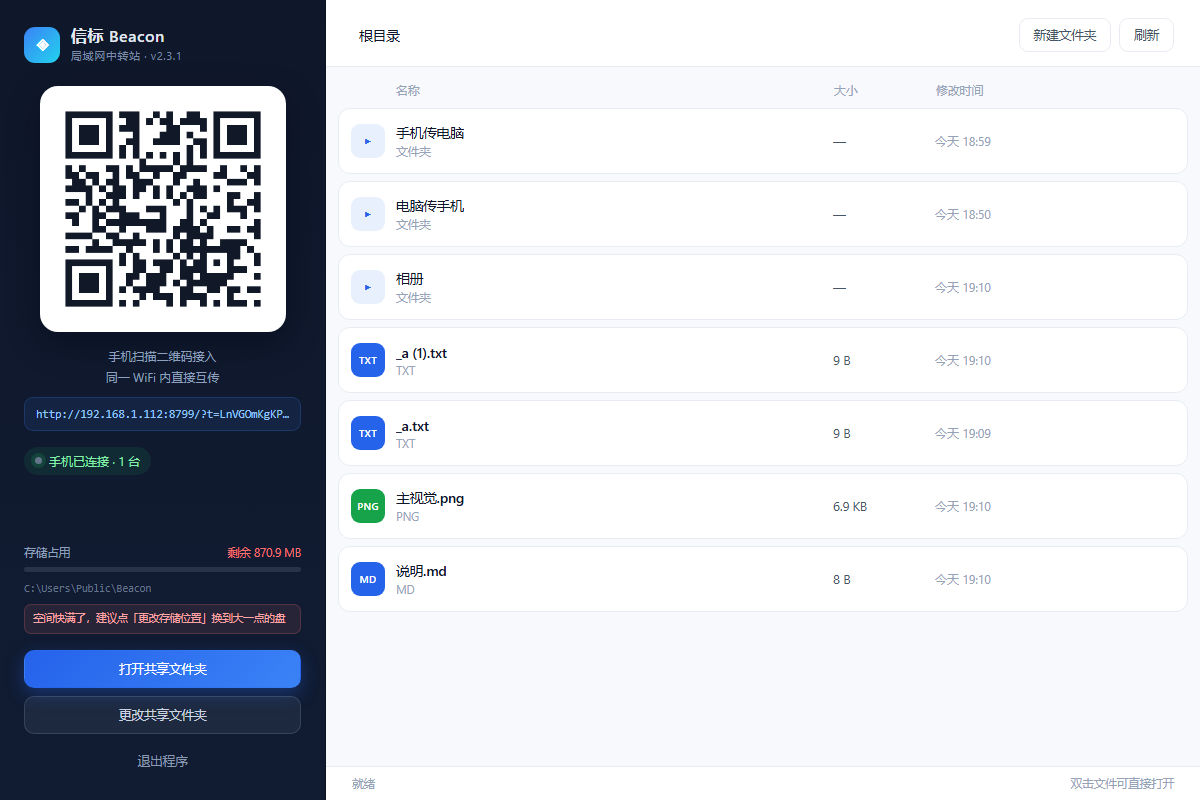
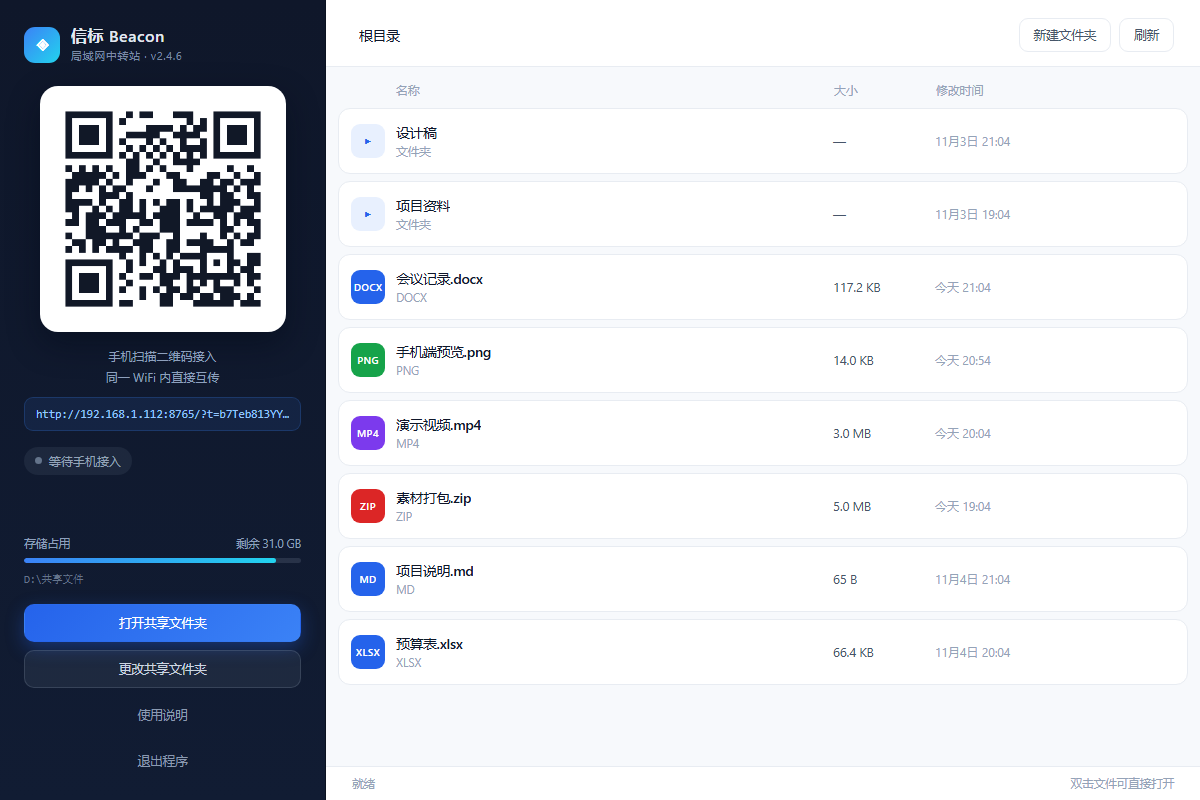
更新文档与界面截图
- README 改为客观表述，补充系统结构、接口说明与限制说明
- 电脑端截图更换为当前版本界面
- 新增社交预览图

diff --git a/README.md b/README.md
@@ -1,86 +1,100 @@
 # 信标 Beacon
 
-手机和电脑之间传文件，不装网盘、不登录、不经过任何服务器。
+局域网内的文件中转工具。运行后在本机启动一个 HTTP 服务并生成二维码，手机扫码即可通过浏览器访问该服务，完成文件的上传与下载。
 
-双击一个 exe，窗口里出来一张二维码；手机扫一下，两台设备就接上了。之后手机能直接浏览电脑上的文件夹、下载、上传，反过来电脑上的文件手机随时拿走。全程只走你自己的 WiFi。
-
-```
-       电脑（Beacon.exe）                     手机
-    ┌──────────────────────┐          ┌──────────────────┐
-    │  D:\Beacon           │          │                  │
-    │  ├── 杂图3           │◄────────►│   浏览器扫码访问  │
-    │  ├── 项目资料        │   同一个  │                  │
-    │  └── ...             │   WiFi    │                  │
-    └──────────────────────┘          └──────────────────┘
-              起了一个小网站              扫码即连
-```
+数据仅在局域网内传输，不经过第三方服务器，不需要注册账号，也不依赖互联网。
 
 ---
 
-## 它解决什么问题
+## 背景
 
-微信传文件会压图、传大文件限速、超 100MB 要开会员；QQ 传完还得翻聊天记录。同学之间传作业、传视频，天天在忍这个。
+在同一个局域网内传输文件，常见做法是借助即时通讯工具或网盘，但前者会压缩图片、限制大文件速度，后者需要上传到外部服务器并受容量与时效约束。
 
-信标的做法是：**电脑上跑一个小网站，手机当浏览器来访问。** 文件从来没有被「上传」到任何地方，它一直躺在你的硬盘上，手机只是来取。所以没有大小限制、没有压缩、没有等待转码。
+本项目采用另一种方式：由电脑端在本地提供 HTTP 服务，手机端作为客户端访问。文件始终保存在电脑的磁盘上，传输过程只发生在两台设备之间。
 
-二维码里不存文件，只存一串地址：`http://192.168.x.x:8765/?t=<随机口令>`。扫码这一步省掉的，是手动输入 IP 这个最烦的环节。
+二维码中承载的内容是一行地址，格式为 `http://<局域网 IP>:<端口>/?t=<访问令牌>`，用于免去手动输入 IP 地址的步骤。
 
 ---
 
-## 截图
+## 界面
 
-![桌面窗口](screenshots/desktop.png)
+电脑端主界面：
 
-| 手机浏览器 | 内置使用说明 |
-|---|---|
-| ![手机](screenshots/phone-web.png) | ![说明](screenshots/help.png) |
+![电脑端](screenshots/desktop.png)
+
+手机端（浏览器访问）：
+
+![手机端](screenshots/phone-web.png)
+
+内置使用说明：
+
+![使用说明](screenshots/help.png)
 
 ---
 
 ## 功能
 
-**电脑端窗口**
-- 左边二维码 + 连接状态 + 磁盘占用条，右边实时文件列表
-- 拖文件或整个文件夹进窗口就上传（自动遍历子目录，保留结构）
-- 双击文件用系统程序打开；改名、删除、新建文件夹
-- 删除先进 Windows 回收站，可从回收站还原
-- 随时更改共享目录，不用重启
-- 手机连上/断开状态实时变化
+**电脑端**
 
-**手机端（浏览器，不用装 App）**
-- 扫码即连；也可以「添加到主屏幕」，之后像个 App 一样全屏打开
-- 图片缩略图，点开直接看图、看视频、看文本，不用先下载
-- 上传显示实时速率和剩余时间，超过 6MB 自动分片、断线自动重传
+- 展示二维码、连接状态与磁盘占用
+- 实时文件列表，与共享目录保持一致
+- 支持拖拽文件或文件夹上传，自动保留目录结构
+- 支持重命名、删除、新建文件夹，以及调用系统程序打开文件
+- 删除操作将文件移入 Windows 回收站，可从回收站恢复
+- 共享目录可在运行时切换，无需重启
+- 显示当前连接的手机数量
+
+**手机端**
+
+- 扫码即用，无需安装应用；也可添加至主屏幕以全屏方式打开
+- 图片显示缩略图，支持直接查看图片、视频与文本，无需先行下载
+- 上传时显示实时速率与剩余时间；超过 6 MB 的文件自动分片，单片失败自动重传
 - 单个文件下载支持断点续传
-- 整个文件夹可以打包成 ZIP 下载（边压边发，不占额外磁盘）
+- 文件夹可打包为 ZIP 下载，打包过程边压边发，不产生临时文件
 
-**安全**
-- 每次启动生成随机 token，二维码里带着。别人拿到你的 IP 也打不开
-- 目录穿越、无 token 访问一律 403
-- 上传文件名做清洗，写不出共享目录之外
+**访问控制**
+
+- 每次启动生成随机访问令牌，二维码中包含该令牌
+- 无令牌访问与目录穿越请求一律返回 403
+- 上传文件名经过清洗，写入范围限制在共享目录内
+
+---
+
+## 技术结构
+
+```
+┌─────────────────────┐        HTTP / 局域网        ┌──────────────────┐
+│  电脑端 Beacon.exe  │ ◄─────────────────────────► │  手机浏览器      │
+│  Flask + Waitress   │                             │  扫码访问        │
+│  共享目录 ↔ 磁盘    │                             └──────────────────┘
+└─────────────────────┘
+```
+
+| 组成 | 说明 |
+|---|---|
+| 后端 | Python 3 + Flask + Waitress，单进程同时处理 HTTP 请求与窗口生命周期 |
+| 窗口 | pywebview（EdgeChromium 内核），窗口关闭时进程随之退出 |
+| 二维码 | qrcode 库生成，内容为本机局域网地址与访问令牌 |
+| 前端 | 原生 HTML/CSS/JavaScript，未使用框架 |
 
 ---
 
 ## 快速开始
 
-**方式一：直接用打包好的**
+### 直接运行
 
-```
-双击 dist\Beacon.exe
-```
+双击 `dist\Beacon.exe`。首次运行时 Windows 可能弹出防火墙提示，需要选择「允许访问」，否则手机端无法连接。
 
-窗口弹出，左边就是二维码。第一次运行 Windows 可能弹防火墙提示，**必须点「允许访问」**，否则手机连不上——这是最常见的坑。
+默认共享目录为 `C:\Users\Public\Beacon`，可在窗口中点击「更改共享文件夹」切换为任意目录。若目标目录中已有文件，切换后立即生效，无需复制。
 
-文件默认存 `C:\Users\Public\Beacon`，也可以在窗口里点「更改共享文件夹」换成任意目录，包括你已有的图集文件夹（零复制，直接共享）。
-
-**方式二：从源码跑**
+### 从源码运行
 
 ```bash
 pip install -r requirements.txt
 python app.py
 ```
 
-打包成 exe：
+### 打包
 
 ```bash
 build.bat
@@ -88,56 +102,54 @@ build.bat
 
 ---
 
-## 技术实现
-
-**后端**：Python 3 + Flask + Waitress。单文件三百多行，一个进程既处理 HTTP，又管窗口生命周期。
-
-**窗口**：pywebview（EdgeChromium 内核）。早期版本用浏览器的 `--app` 模式当外壳，被坑过——Edge 会复用同一个应用窗口，第二次双击时旧页面被置换、触发关闭回调，把整个服务杀了。换成 pywebview 之后窗口归自己的进程管，关窗即退出，行为确定。
-
-**二维码**：`qrcode` 库生成，内容是 `http://<局域网IP>:8765/?t=<token>`。
-
-**上传**：超过 6MB 自动切片（2MB 一片），每片独立重试。服务端用预分配文件 + 随机定位写入来重组，全部收完才落成正式文件名，中途断掉不会留下半个文件。
-
-**打包下载**：`zipfile` 存储模式 + 队列式流式输出。生产者在后台线程压缩，消费者边收边往 HTTP 响应里写，内存占用恒定在几 MB，不生成临时文件——否则一个 4GB 的文件夹就要再占 4GB 磁盘。
-
-**局域网 IP 探测**：向 `8.8.8.8:80` 建一个 UDP socket（不实际发包），读 `getsockname()` 拿到本机出口地址。比遍历网卡可靠，不会误选虚拟网卡。
-
----
-
 ## 接口
 
-| 方法 | 路径 | 作用 |
+| 方法 | 路径 | 说明 |
 |---|---|---|
-| GET | `/` | 手机端页面（首次访问用 `?t=token`） |
-| GET | `/desk` | 电脑端窗口页面（仅本机可访问） |
+| GET | `/` | 手机端页面，首次访问需携带 `?t=token` |
+| GET | `/desk` | 电脑端窗口页面，仅本机可访问 |
 | GET | `/help` | 使用说明 |
-| GET | `/api/list` | 列目录 |
-| POST | `/api/upload` | 上传（multipart，可多文件） |
+| GET | `/api/list` | 列出目录 |
+| POST | `/api/upload` | 上传文件，支持多文件 |
 | POST | `/api/upload/init` | 分片上传：初始化 |
-| POST | `/api/upload/chunk` | 分片上传：传一片 |
+| POST | `/api/upload/chunk` | 分片上传：上传单片 |
 | POST | `/api/upload/finish` | 分片上传：合并 |
-| GET | `/f?p=&inline=1` | 下载 / 预览（支持 Range） |
+| GET | `/f?p=&inline=1` | 下载或预览，支持 Range |
 | GET | `/zip?p=` | 文件夹打包下载 |
 | GET | `/api/thumb` | 图片缩略图 |
-| POST | `/api/delete` | 删除（进回收站） |
-| POST | `/api/rename` | 改名 |
+| POST | `/api/delete` | 删除文件或目录 |
+| POST | `/api/rename` | 重命名 |
 | POST | `/api/mkdir` | 新建文件夹 |
 | GET | `/api/qr.png` | 二维码图片 |
 | GET | `/api/health` | 健康检查 |
 
 ---
 
-## 已知限制
+## 实现说明
 
-说清楚，免得踩到：
+**局域网地址获取**：向 `8.8.8.8:80` 创建 UDP 套接字（不实际发送数据包），读取 `getsockname()` 获取本机出口地址。相比遍历网卡，该方式不会误选虚拟网卡。
 
-- **只能同一个 WiFi**。手机用流量访问不了，这是网络本身的限制，不是 bug。
-- **HTTP 明文**。有随机 token 挡着，但没加密。宿舍这类公共网络下，理论上同网段有人抓包能看到内容。
-- **大文件夹打包下载没有断点续传**。超过约 1.2GB 的文件夹走流式输出，断了要重下。单个文件是可以续传的。
-- **手机之间不能直接互传**，要经过电脑。
+**分片上传**：超过 6 MB 的文件按 2 MB 切片，每片独立重试。服务端预先创建目标文件并按片偏移写入，全部接收完成后才重命名为正式文件，中途中断不会残留不完整文件。
+
+**打包下载**：使用 zipfile 的存储模式，配合后台线程与队列实现流式输出。生产者线程负责压缩，消费者将数据块写入 HTTP 响应，内存占用保持在数 MB 级别，且不在磁盘生成临时文件。
+
+**窗口管理**：早期版本以浏览器的应用模式作为窗口外壳，存在一个问题——浏览器会复用同一个应用窗口，重复启动时旧页面被替换，触发关闭回调并终止服务。改用 pywebview 后，窗口归属于进程本身，关闭窗口即退出，行为可预期。
 
 ---
 
+## 限制说明
+
+- 仅在同一个局域网内可用。手机使用移动数据时无法访问，这是网络结构决定的。
+- 传输使用 HTTP 明文。请求携带随机令牌，未持有令牌者无法访问，但内容本身未加密。在公共网络环境下存在被同网段抓包的可能。
+- 超过约 1.2 GB 的文件夹在打包下载时采用流式输出，不支持断点续传；单个文件下载支持续传。
+- 手机之间无法直接互传，需要经由电脑中转。
+
+---
+
+## 作者
+
+陈星瑜
+
 ## 许可
 
-MIT，随便用。见 [LICENSE](LICENSE)。
+本项目采用 MIT 许可证，详见 [LICENSE](LICENSE)。
